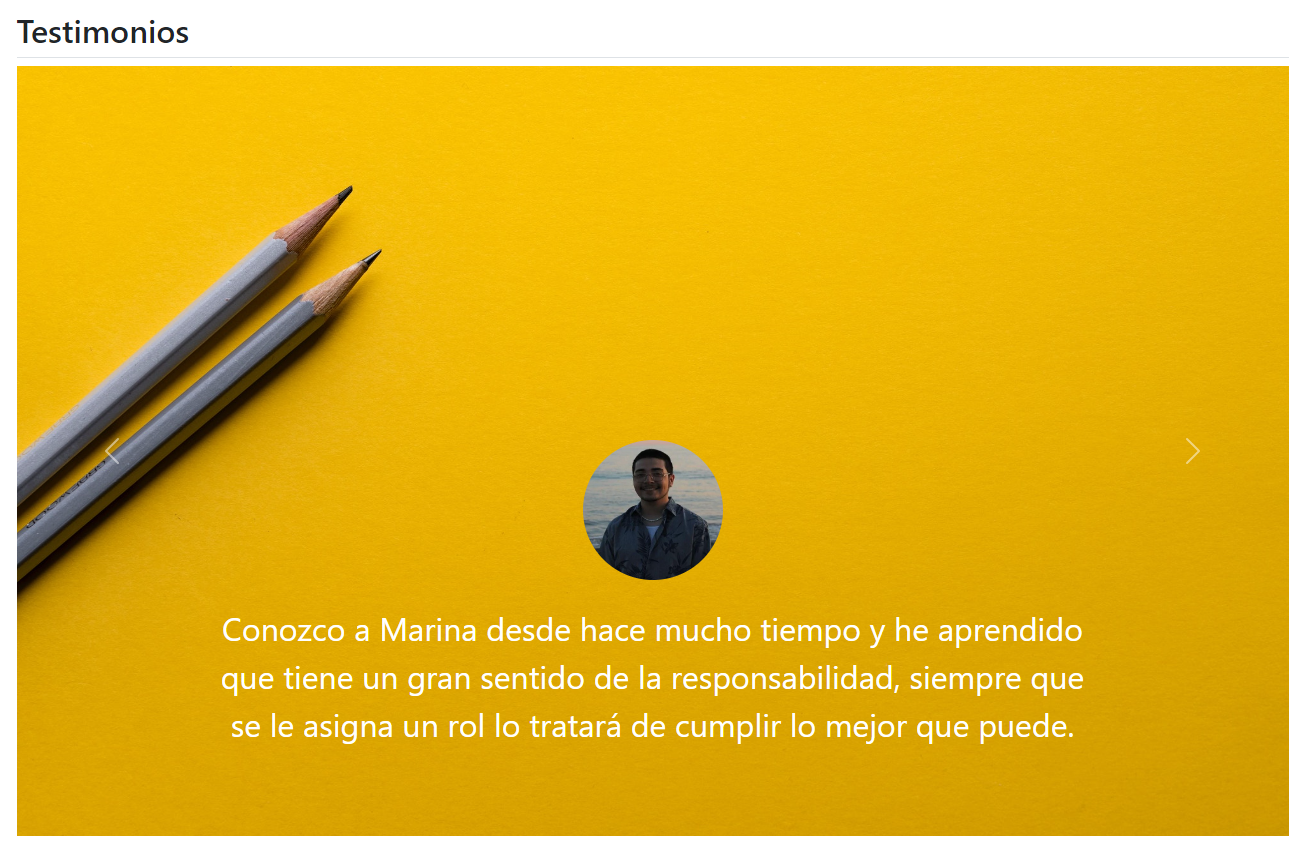
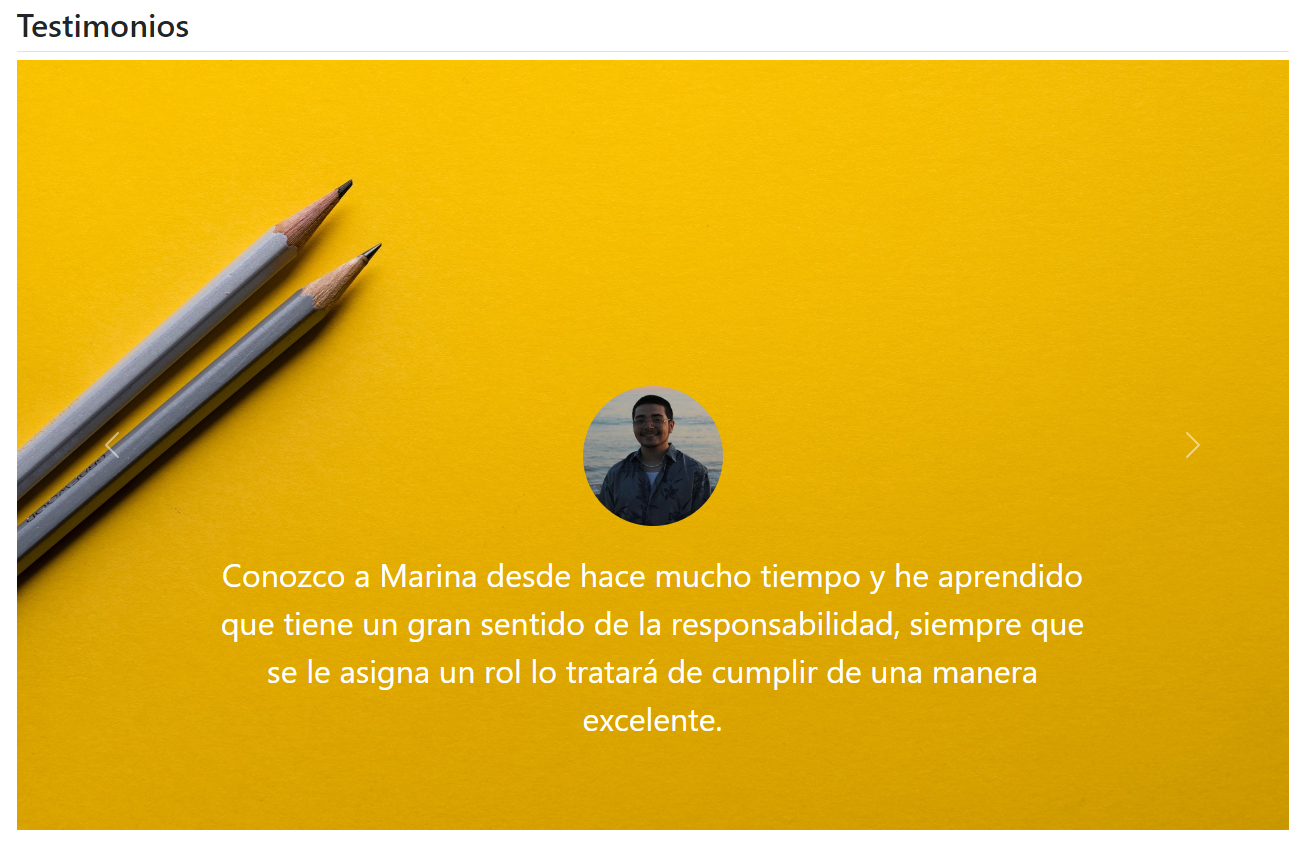
Add files via upload

diff --git a/index.html b/index.html
@@ -120,7 +120,7 @@
                     <img src="assets/background-carrousel.jpg" class="d-block w-100 opacity-28" alt="fondo-carrousel" width="700" height="770">
                     <div class="carousel-caption d-none d-md-block">
                         <img src="assets/Leonardo.jpeg" class="bd-placeholder-img rounded-circle" width="140" height="140" xmlns="http://www.w3.org/2000/svg" aria-label="Placeholder" focusable="false"><title>Placeholder</title><rect width="100%" height="100%" fill="var(--bs-secondary-color)"></rect></svg>
-                        <p class="my-4 fs-2 text-white mb-5">Conozco a Marina desde hace mucho tiempo y he aprendido que tiene un gran sentido de la responsabilidad, siempre que se le asigna un rol lo tratará de cumplir lo mejor que puede.</p>
+                        <p class="my-4 fs-2 text-white mb-5">Conozco a Marina desde hace mucho tiempo y he aprendido que tiene un gran sentido de la responsabilidad, siempre que se le asigna un rol lo tratará de cumplir de una manera excelente.</p>
                   </div>
                   </div>
                   <div class="carousel-item">
